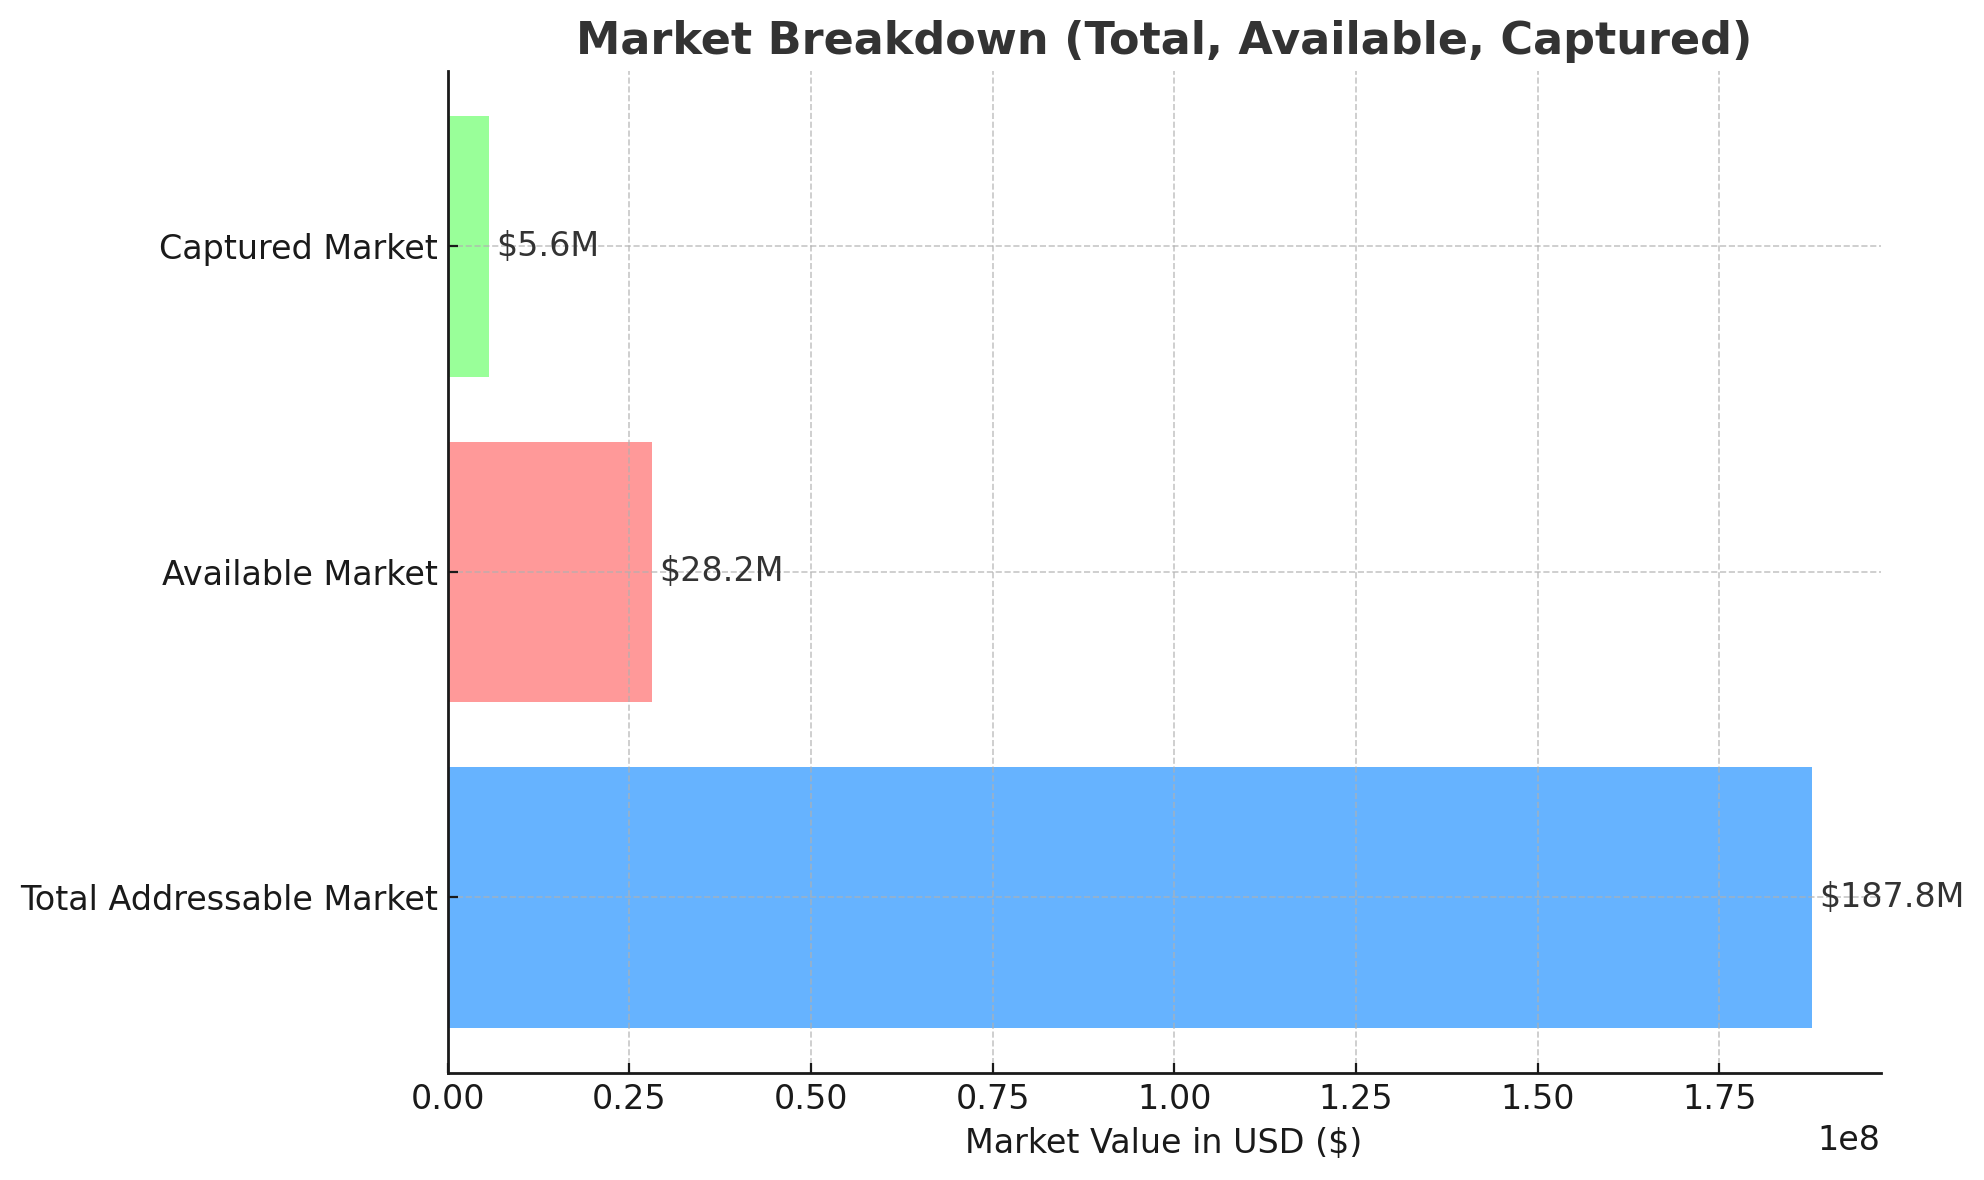
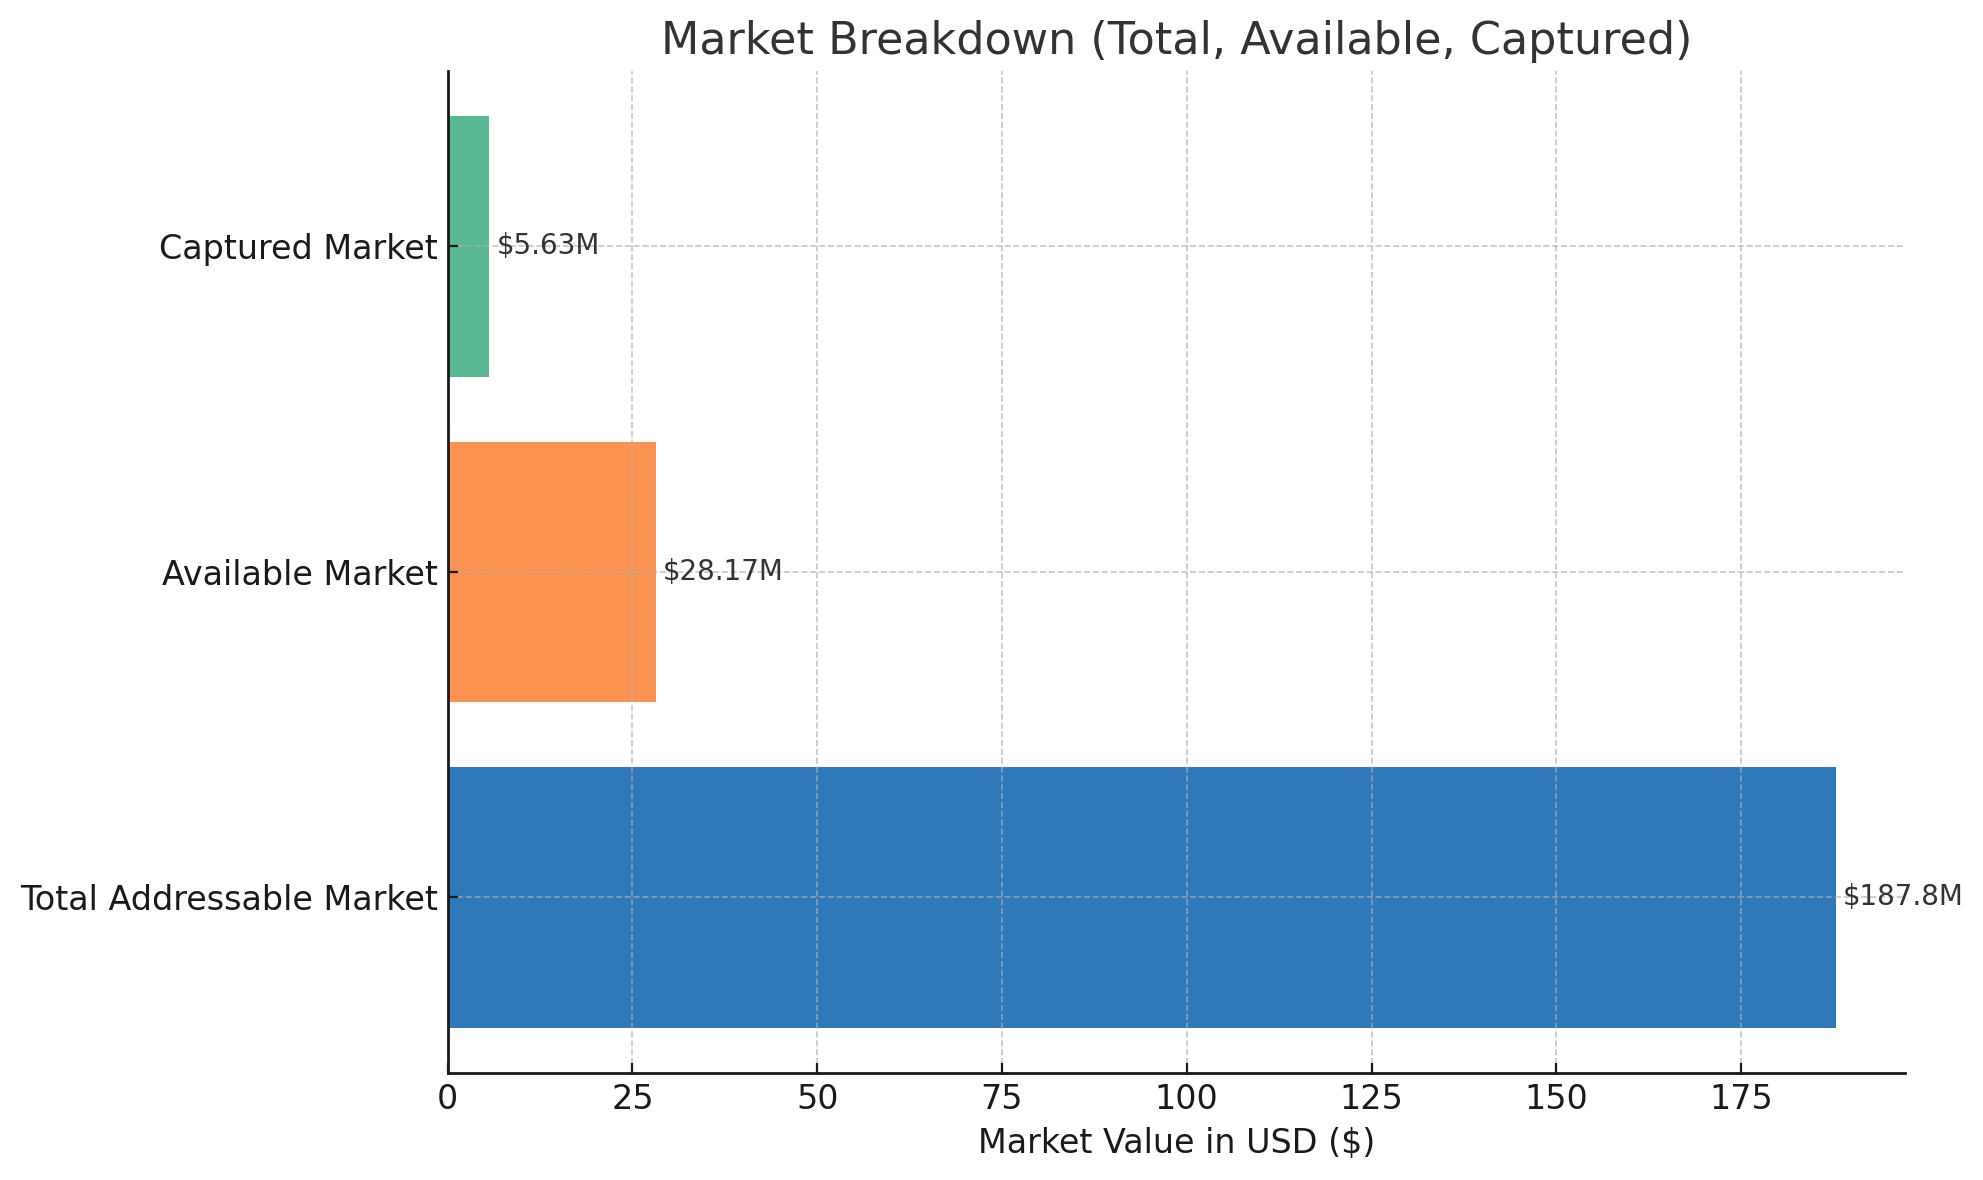
Color palette and chart

diff --git a/index.html b/index.html
@@ -107,63 +107,77 @@
     
     
 
- <!-- New Section: Market -->
-<section id="market-breakdown" class="w-full min-h-screen bg-gray-50 flex flex-col justify-center items-center py-12 px-6">
-    <!-- Heading -->
-    <h2 class="text-4xl md:text-5xl font-extrabold text-center w-full text-gray-800 mb-8">Market Breakdown: From Total Opportunity to Captured Market</h2>
-    
-    <!-- Flex Container for Images and Text -->
-    <div class="flex flex-col md:flex-row w-full max-w-7xl items-start gap-12">
+    <!-- New Section: Market -->
+    <section id="market-breakdown" class="w-full min-h-screen bg-gray-50 flex flex-col justify-center items-center py-12 px-6">
+        <!-- Heading -->
+        <h2 class="text-4xl md:text-5xl font-extrabold text-center w-full text-gray-800 mb-8">Market Breakdown: From Total Opportunity to Captured Market</h2>
         
-        <!-- Left Column: Stacked Images -->
-        <div class="md:w-1/2 space-y-6"> <!-- space-y-6 adds vertical space between images -->
-            <!-- Waterfall Chart (First Image) -->
-            <div class="relative w-full h-full shadow-lg rounded-xl overflow-hidden">
-                <img src="images/market.png " alt="Market Breakdown Waterfall Chart" class="w-full h-auto rounded-xl">
-            </div>
+        <!-- Flex Container for Images and Text -->
+        <div class="flex flex-col md:flex-row w-full max-w-7xl items-start gap-12">
+            
+            <!-- Left Column: Stacked Images -->
+            <div class="md:w-1/2 space-y-6"> <!-- space-y-6 adds vertical space between images -->
+                <!-- Waterfall Chart (First Image) -->
+                <div class="relative w-full h-full shadow-lg rounded-xl overflow-hidden">
+                    <img src="images/market.png " alt="Market Breakdown Waterfall Chart" class="w-full h-auto rounded-xl">
+                </div>
 
-            <!-- Second Image (Newly Added) -->
-            <div class="relative w-full h-full shadow-lg rounded-xl overflow-hidden pt-4">
-                <img src="images/gap.jpeg" alt="Second Market Breakdown Chart" class="w-full h-auto rounded-xl">
+                <!-- Second Image (Newly Added) -->
+                <div class="relative w-full h-full shadow-lg rounded-xl overflow-hidden pt-4">
+                    <img src="images/gap.jpeg" alt="Second Market Breakdown Chart" class="w-full h-auto rounded-xl">
+                </div>
             </div>
-        </div>
-        
-        <!-- Right Column: Text with Animation -->
-        <div class="md:w-1/2 md:pl-8 text-left animate__animated animate__fadeInUp">
-            <!-- Box 1 -->
-            <div class="p-6 mb-6 bg-white shadow-lg rounded-lg border-l-4 border-blue-500 animate__animated animate__fadeInLeft">
-                <h3 class="text-2xl font-bold mb-2 text-blue-500">Total Addressable Market (TAM)</h3>
+            
+            <!-- Right Column: Text with Animation -->
+            <div class="md:w-1/2 md:pl-8 text-left animate__animated animate__fadeInUp">
+                <!-- Box 1 -->
+                <!-- Box 1 (Total Addressable Market - TAM) -->
+            <div class="p-6 mb-6 bg-white shadow-lg rounded-lg border-l-4 border-[#2f78ba] animate__animated animate__fadeInLeft delay-400">
+                <h3 class="text-2xl font-bold mb-2">Total Addressable Market (TAM)</h3>
                 <p class="text-gray-600">
                     The largest potential market, combining all possible pediatric and adult patients, valued at <strong>$187.8 million</strong>.
                 </p>
             </div>
 
-            <!-- Box 2 -->
-            <div class="p-6 mb-6 bg-white shadow-lg rounded-lg border-l-4 border-red-500 animate__animated animate__fadeInUp">
-                <h3 class="text-2xl font-bold mb-2 text-red-500">Available Market for Services (SAM)</h3>
+            <!-- Box 2 (Available Market for Services - SAM) -->
+            <div class="p-6 mb-6 bg-white shadow-lg rounded-lg border-l-4 border-[#fb9250] animate__animated animate__fadeInUp delay-400">
+                <h3 class="text-2xl font-bold mb-2 text-[#fb9250]">Available Market for Services (SAM)</h3>
                 <p class="text-gray-600">
                     Focusing specifically on children under 15, this segment reduces to <strong>$28.17 million</strong>.
                 </p>
             </div>
 
-            <!-- Box 3 -->
-            <div class="p-6 mb-6 bg-white shadow-lg rounded-lg border-l-4 border-green-500 animate__animated animate__fadeInRight">
-                <h3 class="text-2xl font-bold mb-2 text-green-500">Captured Market (SOM)</h3>
+            <!-- Box 3 (Captured Market - SOM) -->
+            <div class="p-6 mb-6 bg-white shadow-lg rounded-lg border-l-4 border-[#5ab993] animate__animated animate__fadeInRight delay-400">
+                <h3 class="text-2xl font-bold mb-2 text-[#5ab993]">Captured Market (SOM)</h3>
                 <p class="text-gray-600">
                     The most relevant market, focusing on children under 1 year, where we expect to engage directly, valued at <strong>$5.63 million</strong>.
                 </p>
             </div>
 
-            <!-- Conclusion Box -->
-            <div class="p-6 bg-white shadow-lg rounded-lg border-l-4 border-gray-500 animate__animated animate__bounceIn">
-                <h3 class="text-2xl font-bold mb-2 text-gray-800">Conclusion</h3>
-                <p class="text-gray-600">
-                    The Stacked Bar Chart shows the progression from the broad Total Addressable Market (TAM) to the more focused segments where our solutions are most effective, including the Available Market for Services (SAM) and the Captured Market (SOM). This visualization emphasizes the importance of focusing on the pediatric market, particularly the youngest patients, and provides a roadmap for growth as we expand our reach and capture a larger share of the available market.
-                </p>
+
+                <!-- Conclusion Box -->
+                <div class="p-6 bg-white shadow-lg rounded-lg border-l-4 border-gray-500 animate__animated animate__bounceIn">
+                    <h3 class="text-2xl font-bold mb-2 text-gray-800">Market Gap</h3>
+                    <ul class="list-disc pl-5 text-gray-600 mb-4">
+                        <li>
+                            The laryngoscope, although widely used and low-cost, has a success rate of less than 50% on the first attempt.
+                        </li>
+                        <li>
+                            The videolaryngoscope is the gold standard but is expensive, making it inaccessible for public healthcare in countries like Brazil.
+                        </li>
+                        <li>
+                            The laryngeal mask (fasttrack) is a cost-effective solution but is not available for pediatric use.
+                        </li>
+                    </ul>
+                    <p class="text-gray-600">
+                        The gap lies in developing a device that enables quick, effective intubation with minimal training and low cost.
+                    </p>
+                </div>
+                
             </div>
         </div>
-    </div>
-</section>
+    </section>
 
 
     
